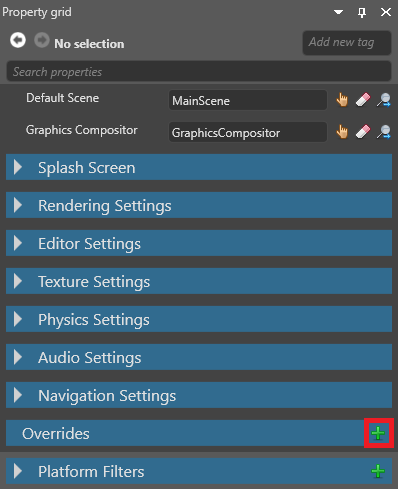
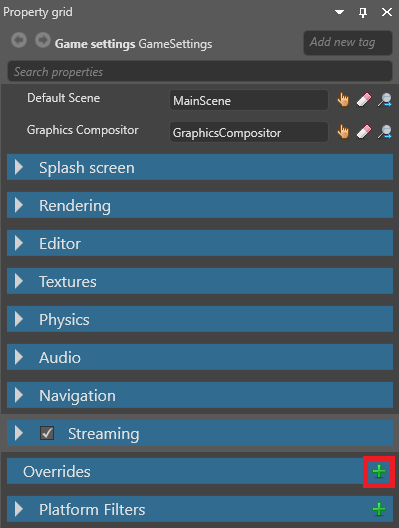
[Textures] expand streaming, update screenshots of game settings, link

diff --git a/en/manual/graphics/textures/streaming.md b/en/manual/graphics/textures/streaming.md
@@ -4,40 +4,38 @@
 <span class="label label-doc-audience">Artist</span>
 <span class="label label-doc-audience">Programmer</span>
 
+As games typically contain lots of textures, it's usually better to **stream** them, so they load only when they're needed. This significantly decreases the time it takes to load a game or scene, uses less memory, and makes your game easier to scale.
+
 >[!Note]
 >Currently, only textures can be streamed.
-
-As games typically contain lots of textures, it's usually better to **stream** them, so they load only when they're needed. This: 
-
-* significantly decreases the time it takes to load a game or scene
-
-* uses less memory
-
-* makes your game easier to scale
 
 ## How Xenko streams textures
 
 When streaming is enabled on a texture, Xenko only loads it when it's rendered in the scene.
 
-There's no loading priority for textures. For example, Xenko doesn't load textures based on distance. Instead, Xenko loads them all in sequence.
+When the texture is no longer needed, Xenko unloads it after a time you specify in the global streaming settings.
 
-If mipmaps are enabled in the [texture properties](index.md), when the texture is needed at runtime, Xenko loads the lowest-quality version of the texture, then upscales it based on the distance from the camera. The gif below shows this process happening in slow motion; in most situations on most hardware, streaming happens much more quickly.
+Currently, there's no loading priority for textures. For example, Xenko doesn't load textures based on distance; instead, Xenko loads them all in sequence.
+
+### Using streaming with mipmaps
+
+If mipmaps are enabled in the [texture properties](index.md), when Xenko streams the texture, Xenko loads a low-quality mipmap, then loads higher-quality mipmaps based on the distance from the camera.
+
+The gif below shows this process happening in slow motion. In most situations, streaming mipmaps happens much more quickly; however, the process can still be noticeable.
 
 ![Texture loading](media/loading-texture.gif)
 
-When the texture is no longer needed, Xenko downscales it, then unloads it.
+If mipmaps are disabled, Xenko only loads the texture at its original quality. This means the texture is invisible until it loads, which can cause pop-in effects. For this reason, we recommend you enable mipmaps for textures when using streaming.
 
-If mipmaps are disabled, Xenko only loads the texture at its original quality. This means the texture is invisible until it loads in full, which can cause noticeable pop-in effects.
-
-## When not to use streaming
+## When **not** to use streaming
 
 Streaming is enabled by default for all textures. You might want to disable streaming on important textures you always want to display immediately and in high quality, such as:
 
 * [splash screens](../../game-studio/splash-screen.md)
 
-* textures on player characters
+* textures on player models
 
-* textures used in [particles](../../particles/index.md) (particles often have a short lifespan, so might disappear before the texture fully loads)
+* textures used in [particles](../../particles/index.md) (particles often have a short lifespan, so might disappear before the texture loads)
 
 ## Enable or disable streaming on a texture
 
@@ -49,34 +47,83 @@ Streaming is enabled by default for all textures. You might want to disable stre
 
     ![Enable streaming](media/enable-streaming.png)
 
-## Disable streaming for a single texture in code
+## Global streaming settings
 
-Use:
+You can access the global streaming settings in the Game Settings asset. These settings apply to all textures that have streaming enabled.
 
-```cs
-((Game)Game).Streaming.StreamResourcesFully(myTexture);
-```
+For instructions about how to access the global streaming settings, see the [Game Settings](../../game-studio/game-settings.md) page.
 
-To disable streaming on a texture and load it in code, use:
+### Properties
+
+![Streaming settings](../../game-studio/media/streaming-settings.png)
+
+| Property             | Description
+|----------------------|------------
+| Streaming            | Enable streaming
+| Update interval | How frequently Xenko updates the streaming
+| Max resources per update | The maximum number of textures updated per update. Higher numbers reduce pop-in but slow the framerate.
+| Resource timeout (milliseconds)| How long resources stay loaded after they're no longer used (after the **memory budget** is exceeded)
+| Memory budget (in MB) | When the memory used by streaming exceeds this budget, unused resources are removed
+
+## Control streaming in code
+
+To disable streaming for a single texture:
 
 ```cs
 var texture = Content.Load<Texture>("myTexture", ContentManagerLoaderSettings.StreamingDisabled);
 ```
 
-## Disable all texture streaming
+### Access the streaming manager
 
-To override all texture settings and disable streaming globally, use:
+Use [Streaming](xref:SiliconStudio.Xenko.Streaming).
+
+For example, to enable streaming globally, use:
+
+```cs
+Streaming.EnableStreaming = true;
+```
+
+To start streaming a texture, use:
+
+```cs
+Streaming.StreamResources(myTexture);
+```
+
+### StreamingOptions
+
+There are three [StreamingOptions](xref:SiliconStudio.Xenko.Streaming.StreamingOptions):
+
+#### KeepLoaded
+
+The `KeepLoaded` option keeps the texture in memory even if the memory budget is exceeded.
+
+For example:
+
+```cs
+var myOptions = new StreamingOptions() { KeepLoaded = true };
+Streaming.StreamResources(myTexture, myOptions);
+```
+
+#### Change the StreamingOptions at runtime
+
+Use `SetResourceStreamingOptions`. For example:
+
+```cs
+var myNewOptions = new StreamingOptions() { KeepLoaded = false };
+Streaming.SetResourceStreamingOptions(myTexture, myNewOptions);
+```
+
+#### Disable streaming globally
+
+Use:
 
 ```cs
 ((Game)Game).Streaming.DisableStreaming = true;
 ```
-
-## StreamingManager API
-
-To change streaming settings such as the lifespan of streamed textures or streaming efficiency, see the [StreamingManager API](xref:SiliconStudio.Xenko.Streaming.StreamingManager).
 
 ## See also
 
 * [StreamingManager API](xref:SiliconStudio.Xenko.Streaming.StreamingManager)
 * [Textures index](index.md)
 * [Texture compression](compression.md)
+* [Game Settings](../../game-studio/game-settings.md)

diff --git a/en/manual/game-studio/game-settings.md b/en/manual/game-studio/game-settings.md
@@ -6,9 +6,9 @@
 
 You can configure the global settings of your game in the **Game Settings** asset. By default, the Game Settings asset is stored in your project's **Assets** folder.
 
-## Edit Game Settings
+## Edit game settings
 
-1. In the **solution explorer** (the bottom-left pane by default), select the **Assets folder**.
+1. In the **solution explorer** (the bottom-left pane by default), select the **Assets** folder.
 
     ![Select Assets folder asset](media/select-asset-folder.png)
 
@@ -68,7 +68,7 @@ The **splash screen** is displayed when your game starts. The default is the Xen
 
 For more information, see [Splash screen](/splash-screen.md).
 
-## Rendering settings
+## Rendering
 
 ![Rendering settings](media/rendering-settings.png)
 
@@ -85,12 +85,12 @@ For more information, see [Splash screen](/splash-screen.md).
 > [!Tip]
 > To check which default platform your project uses, add a break point to your code (eg in a script), run the project, and check the value of the [GraphicsDevice.Platform](xref:SiliconStudio.Xenko.Graphics.GraphicsDevice.Platform) variable.
 
-## Editor settings
+## Editor
 
-The editor settings control how Game Studio displays entities in the scene editor. These settings have no effect on your game at runtime.
+The **editor** settings control how Game Studio displays entities in the scene editor. These settings have no effect on your game.
 
 >[!Note]
->How Game Studio displays entities is also affected by the **Color space** setting under **Rendering settings**.
+>How Game Studio displays entities is also affected by the **Color space** setting under **Rendering**.
 
 ![Editor settings](media/editor-settings.png)
 
@@ -99,7 +99,7 @@ The editor settings control how Game Studio displays entities in the scene edito
 | Rendering mode      | How Game Studio renders thumbnails and asset previews. 
 | Animation framerate | The framerate of animations shown in Game Studio. This doesn't affect animation data. 
 
-## Texture settings
+## Textures
 
 ![Texture settings](media/texture-settings.png)
 
@@ -107,7 +107,7 @@ The editor settings control how Game Studio displays entities in the scene edito
 |-----------------|--------------
 | Texture quality | The texture quality when encoding textures. **Fast** uses the least CPU, but has the lowest quality. Higher settings might result in slower builds, depending on the target platform. 
 
-## Physics settings
+## Physics
 
 ![Physics settings](media/physics-settings.png)
 
@@ -117,7 +117,7 @@ The editor settings control how Game Studio displays entities in the scene edito
 | Max sub steps   | The maximum number of simulations the physics engine can run in a frame to compensate for slowdown.
 | Fixed time step | The length in seconds of a physics simulation frame. The default is 0.016667 (one sixtieth of a second). 
 
-## Audio settings
+## Audio
 
 ![Audio settings](media/audio-settings.png)
 
@@ -127,7 +127,7 @@ The editor settings control how Game Studio displays entities in the scene edito
 
 For more details about audio, see [Audio](../audio/index.md).
 
-## Navigation settings
+## Navigation
 
 ![Navigation settings](media/navigation-settings.png)
 
@@ -153,6 +153,23 @@ For more details, see [Dynamic navigation](dynamic-navigation.md).
 
 For more details, see [Navigation](navigation.md).
 
+## Streaming
+
+![Streaming settings](media/streaming-settings.png)
+
+| Property             | Description
+|----------------------|------------
+| Streaming            | Enable streaming
+| Update interval | How frequently Xenko updates the streaming
+| Max resources per update | The maximum number of textures updated per update. Higher numbers reduce pop-in but slow the framerate.
+| Resource timeout (milliseconds)| How long resources stay loaded after they're no longer used (after the **memory budget** is exceeded)
+| Memory budget (in MB) | When the memory used by streaming exceeds this budget, unused resources are removed
+
+>[!Note]
+>Currently, only textures can be streamed.
+
+For more details, see [Streaming](../textures/streaming.md).
+
 ## Overrides
 
 You can override settings for particular platforms, graphics APIs, and so on. For example, you can set different texture qualities for different platforms.
@@ -167,7 +184,7 @@ You can override settings for particular platforms, graphics APIs, and so on. Fo
 
     ![Select graphics platform override](../platforms/media/select-override-platform.png)
 
-3. **Optional**: If you want this override to apply only to a specific GPU platform, choose it from the **Specific Filter** drop-down list.
+3. **Optional**: If you want this override to apply only to a specific GPU platform, choose it from the **Specific filter** drop-down list.
 
     ![Specific filter](media/specific-filter.png)
 

diff --git a/en/manual/graphics/textures/index.md b/en/manual/graphics/textures/index.md
@@ -108,6 +108,16 @@ Note how the blend map texture corresponds to the patterning on the result.
 
 For more information, see [Material maps](../materials/material-maps.md).
 
+### Global texture settings
+
+For instructions about how to access the global texture settings, see the [Game Settings](../../game-studio/game-settings.md) page.
+
+![Texture settings](../../game-studio/media/texture-settings.png)
+
+| Property        | Description  
+|-----------------|--------------
+| Texture quality | The texture quality when encoding textures. **Fast** uses the least CPU, but has the lowest quality. Higher settings might result in slower builds, depending on the target platform.
+
 ## See also
 
 * [Normal maps](normal-maps.md)
@@ -116,3 +126,4 @@ For more information, see [Material maps](../materials/material-maps.md).
 * [Materials](../materials/index.md)
 * [Sprites](../../sprites/index.md)
 * [Render targets](../graphics-compositor/render-targets.md)
+* [Game Settings](../../game-studio/game-settings.md)
